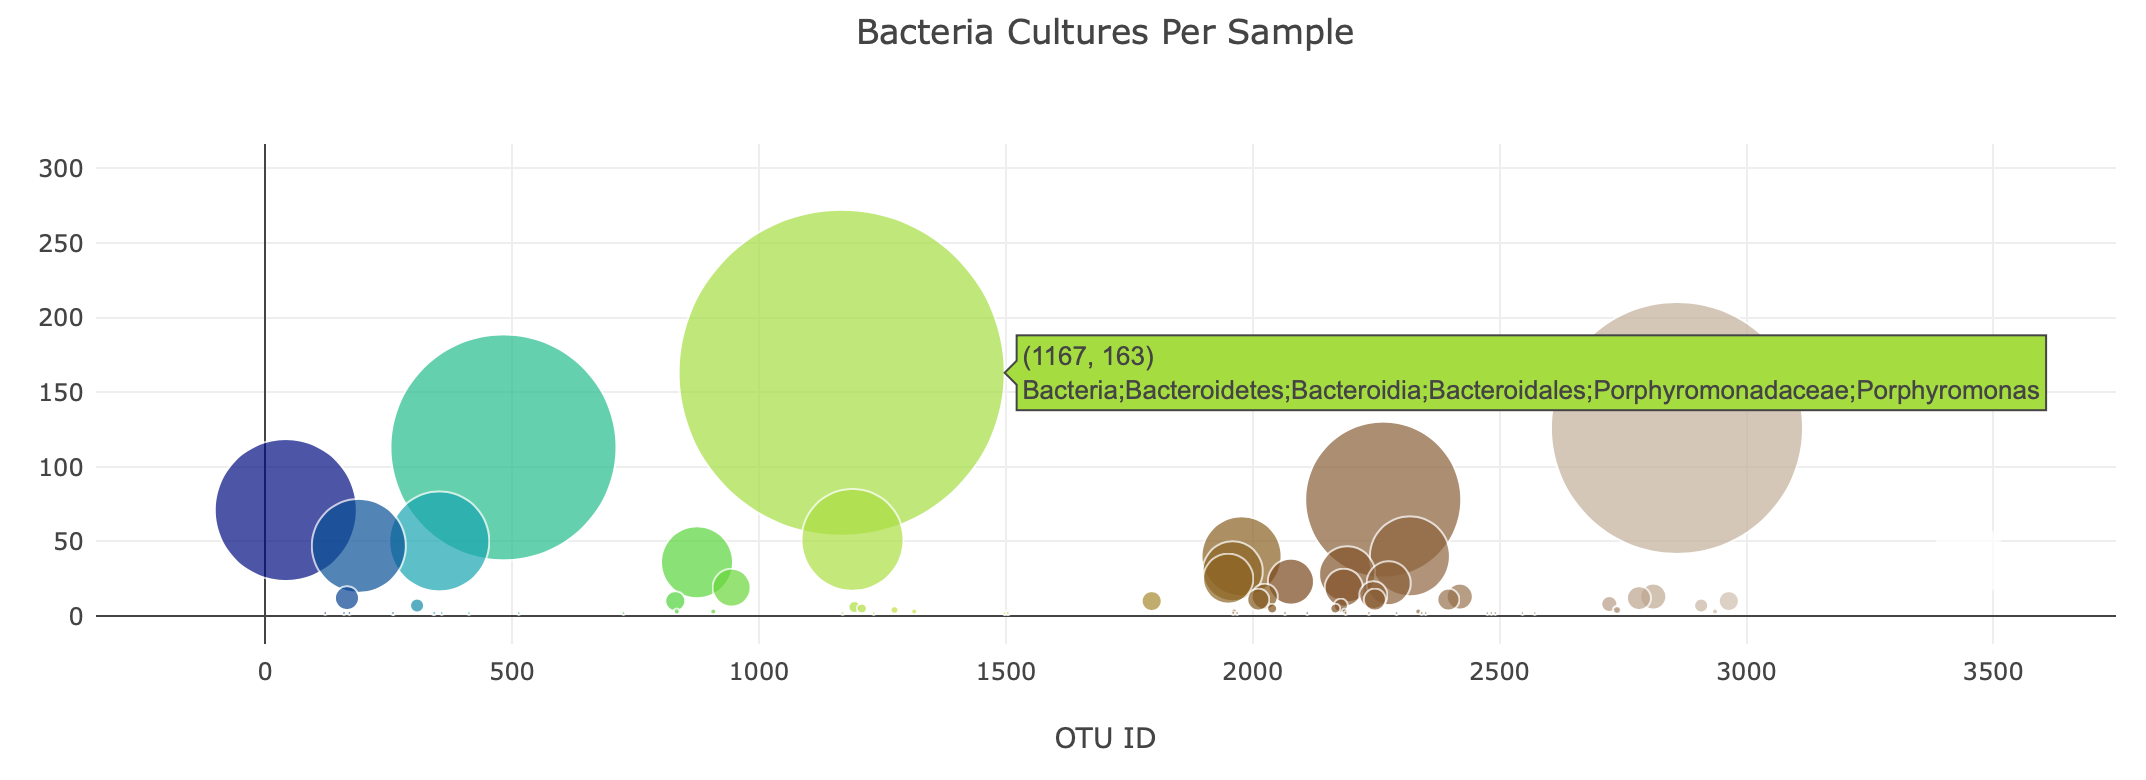
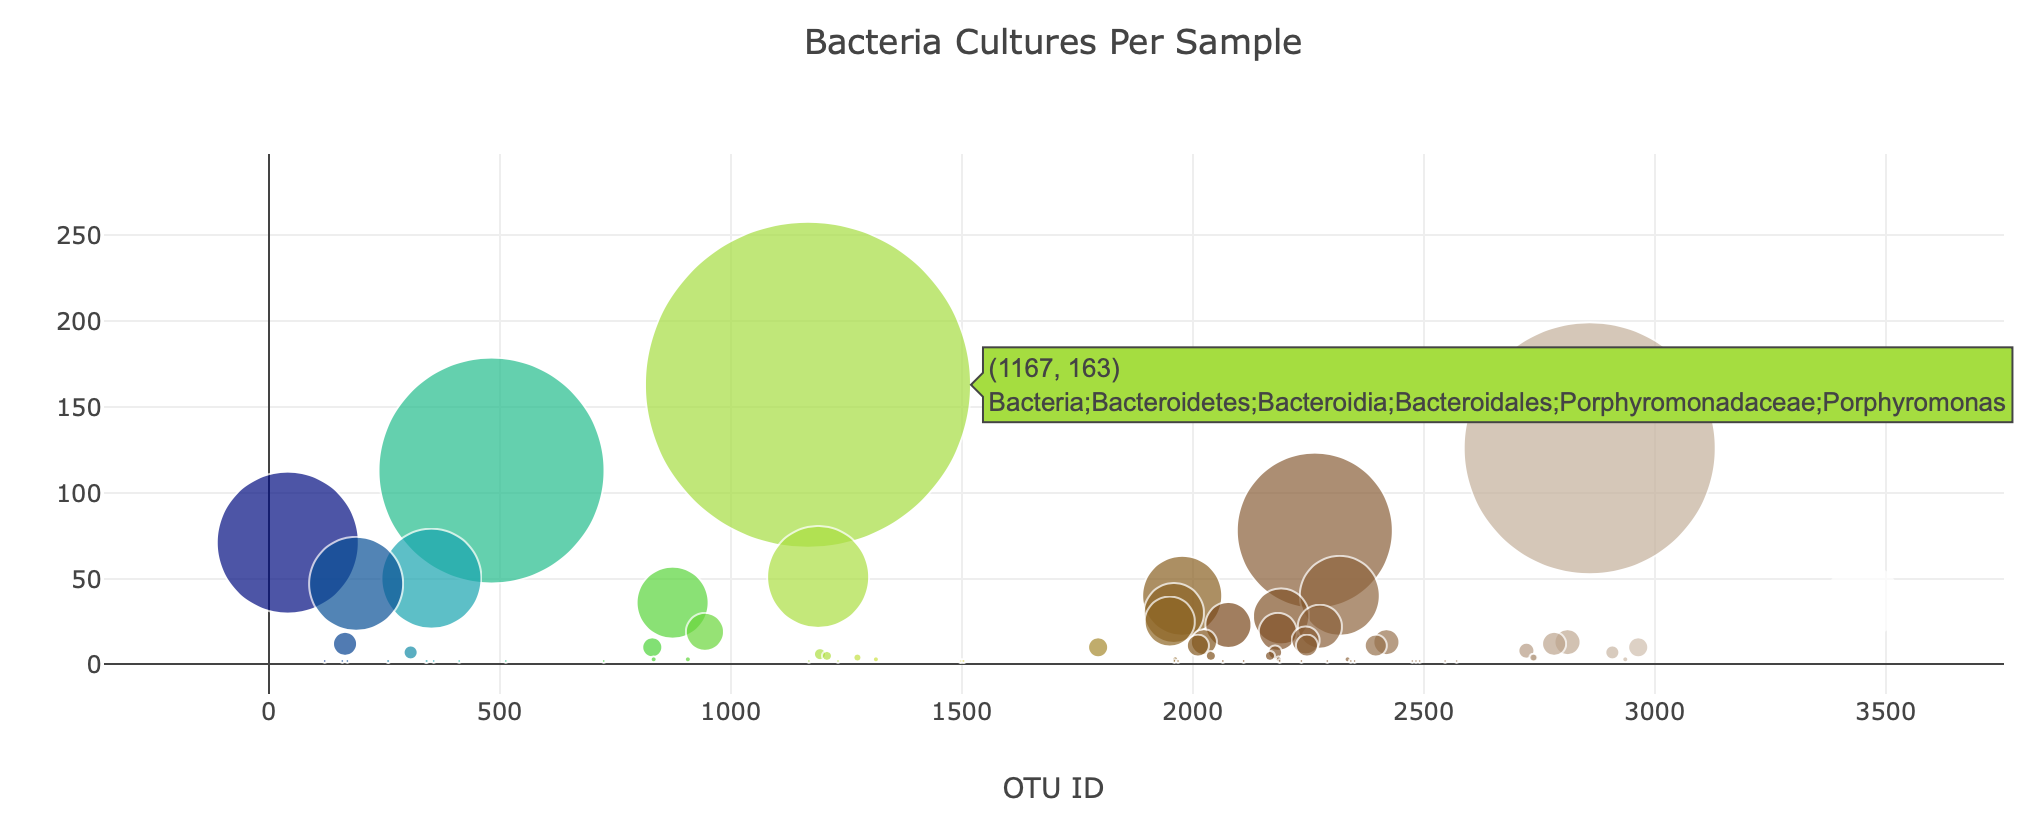
Images updated.

diff --git a/static/js/charts.js b/static/js/charts.js
@@ -127,13 +127,7 @@ function buildCharts(sample) {
     var bubbleLayout = {
       title: "Bacteria Cultures Per Sample",
       xaxis: {title: "OTU ID"},
-      margin: {
-        l: 50,
-        r: 50,
-        b: 100,
-        t: 100,
-        pad: 5
-       },
+      automargin: true,
       hovermode:'closest'
     };
 
